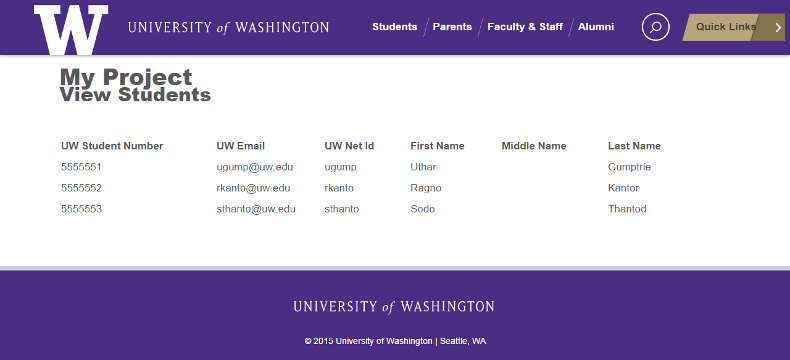
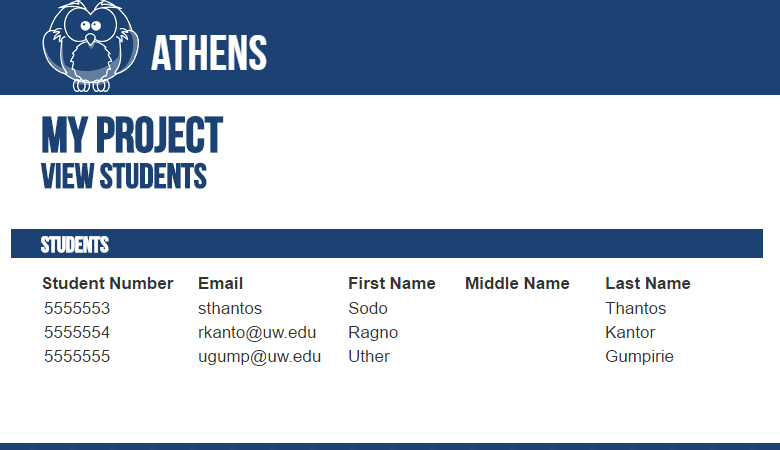
Update documentation.

diff --git a/doc/application-creation.md b/doc/application-creation.md
@@ -28,7 +28,7 @@ Steps
 
 * Create the development project web root:
 
-  Like any other Php project, your Framework project needs to live inside of a web root. You can create a directory inside of your server's web root and use that as a project web root, or you can use the server's web root directly as your project web root.
+  Like any other PHP project, your Framework project needs to live inside of a web root. You can create a directory inside of your server's web root and use that as a project web root, or you can use the server's web root directly as your project web root.
   
   For example, if your server's web root is `/www`, then you could create the directory `/www/myproject`. The directory `/www/myproject` would be your project web root.
   
@@ -72,14 +72,14 @@ Steps
 
   Now we tell composer to download our project's dependencies:
   ```
-  php composer.phar install
+  php composer.phar update
   ```
 
 * Initialize the project:
   
   Now that Framework is installed, we use it to create the bare-bones of a Framework project.
   ```
-  php vendor/athens/core/bin/manage.php init
+  vendor/bin/athens init
   ```
   
   This command creates a handful of directories and files in your project web root, as well as adding a few directives to your composer.json.
@@ -129,7 +129,7 @@ Steps
   
 * (Optional) Install a template set:
   
-  Framework comes with a set of functional, utilitarian templates for document layout and styling. This example uses a set of templates produced for the University of Washington. This example uses this set of templates, and if you're building for an organization licensed to use the University of Washington's brand assets then you can too.
+  Framework comes with a set of functional, utilitarian templates for document layout and styling. You can create your own templates or template packages to convey your unique brand and styling. This example uses the Athens Framework [example theme](https://github.com/AthensFramework/theme).
 
   If you don't have a set of templates to use, you can skip this step and create and install templates later; just changing one line of code in one file will update all of your pages to use your new templates!
   
@@ -138,21 +138,21 @@ Steps
   ```
   "require": {
         ...
-        "uwdoem/boundless": "0.*",
+        "athens/theme": "0.*",
         ...
   },
   ```
   
-  Then add the Boundless templates in your project's `setup.php`, **above** the line that adds your project-templates:
+  Then add the Boundless templates in your project's `setup.php`, **below** the line that adds your project-templates:
   
   ```
-  Settings::addTemplateDirectory(dirname(__FILE__) ."/vendor/uwdoem/boundless/templates");
-  Settings::addTemplateDirectory(dirname(__FILE__) ."/project-templates");
+  Settings::getInstance()->addTemplateDirectories(dirname(__FILE__) ."/project-templates");
+  Settings::getInstance()->addTemplateDirectories(dirname(__FILE__) ."/vendor/athens/theme/templates");
   ```
   
-  Finally, you have to tell composer to download the `uwdoem/boundless` requirement you added. So `cd` into your project root and issue the following:
+  Finally, you have to tell composer to download the `athens/theme` requirement you added. So `cd` into your project root and issue the following:
   ```
-  php composer.phar install
+  php composer.phar update
   ```
   
 
@@ -165,7 +165,7 @@ Steps
   ```
   <?php
 
-  require_once dirname(__FILE__) ."/../setup.php";
+  require_once dirname(__FILE__) .'/../setup.php';
   
   use Athens\Core\Form\FormBuilder;
   use Athens\Core\Page\PageBuilder;
@@ -174,21 +174,23 @@ Steps
   use MyProject\Student;
   
   $form = FormBuilder::begin()
-      ->setId("student-form")
+      ->setId('student-form')
+      ->addClass('inline-fields')
       ->addObject(new Student())
       ->build();
       
   $page = PageBuilder::begin()
       ->setId('student-entry-page')
-      ->setType(Page::PAGE_TYPE_FULL_HEADER)
-      ->setTitle("My Project: Enter a Student")
-      ->setHeader("My Project")
-      ->setSubHeader("Enter a Student")
-      ->setBaseHref("..")
-      ->setWritable($form)
+      ->setType(Page::TYPE_FULL_HEADER)
+      ->setTitle('My Project: Enter a Student')
+      ->setHeader('My Project')
+      ->setSubHeader('Enter a Student')
+      ->setBaseHref('..')
+      ->addLabel('Enter a Student')
+      ->addWritable($form)
       ->build();
 
-  $page->render(null, null);
+  $page->render();
   ```
   
   Now try visiting `pages/enter-student.php` in your web browser. Try submitting a student. Try submitting a student while neglecting to provide a required field. Try submitting a student and then viewing the results in your database.
@@ -202,7 +204,7 @@ Steps
   ```
   <?php
 
-  require_once dirname(__FILE__) ."/../setup.php";
+  require_once dirname(__FILE__) .'/../setup.php';
   
   use Athens\Core\Page\PageBuilder;
   use Athens\Core\Page\Page;
@@ -219,21 +221,21 @@ Steps
   }
   
   $table = TableBuilder::begin()
-      ->setId("students-table")
-      ->setRows($rows)
+      ->setId('students-table')
+      ->addRows($rows)
       ->build();
       
   $page = PageBuilder::begin()
       ->setId('student-view-page')
-      ->setType(Page::PAGE_TYPE_FULL_HEADER)
-      ->setTitle("My Project: View Students")
-      ->setHeader("My Project")
-      ->setSubHeader("View Students")
-      ->setBaseHref("..")
-      ->setWritable($table)
+      ->setType(Page::TYPE_FULL_HEADER)
+      ->setTitle('My Project: View Students')
+      ->setHeader('My Project')
+      ->setSubHeader('View Students')
+      ->setBaseHref('..')
+      ->addWritable($table)
       ->build();
 
-  $page->render(null, null);
+  $page->render();
   ```
   
   ![Your table of students](assets/images/student-table.png)<br>
